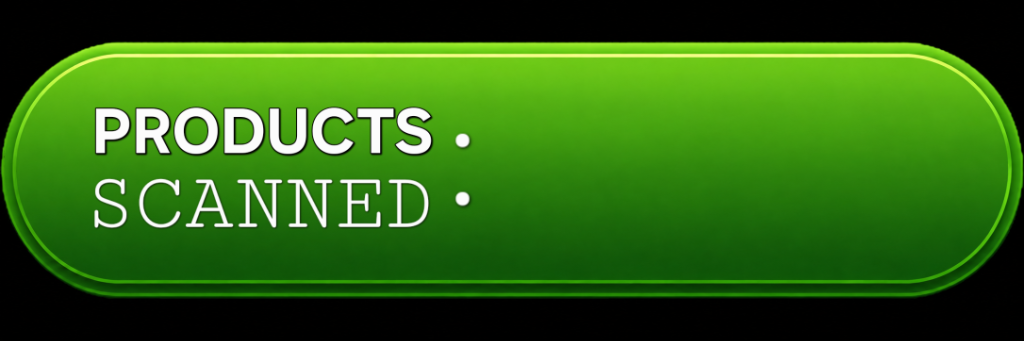
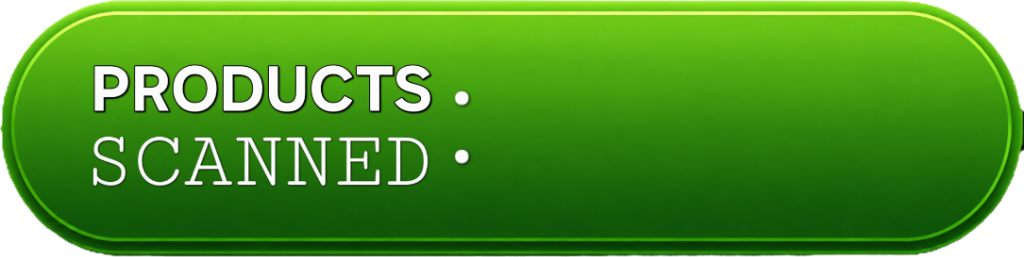
Deploy: Updated State 2 Products Scanned button artwork image asset (products-scanned.png) (Build 202608102058)

diff --git a/frontend/customer/js/build-env.js b/frontend/customer/js/build-env.js
@@ -1,10 +1,10 @@
 // Automatically generated build metadata
 window.APP_BUILD = {
   version: "0.1.0",
-  build: "202608102052",
-  commit: "6a79c64",
+  build: "202608102058",
+  commit: "7532152",
   branch: "main",
-  buildTime: "2026-08-10T20:52:32.056Z",
+  buildTime: "2026-08-10T20:58:51.188Z",
   environment: "production",
   serviceWorkerEnabled: true
 };

diff --git a/frontend/customer/index.html b/frontend/customer/index.html
@@ -11,7 +11,7 @@
   <!-- html5-qrcode library for barcode camera decoding -->
   <script src="js/libs/html5-qrcode.min.js"></script>
   <script src="js/scanner.js"></script>
-  <script>window.HTML_BUILD = "202608102052";</script>
+  <script>window.HTML_BUILD = "202608102058";</script>
 </head>
 <body>
   <div class="app-shell">

diff --git a/frontend/customer/sw.js b/frontend/customer/sw.js
@@ -1,4 +1,4 @@
-const CACHE_NAME = '78pricecheck-202608102052';
+const CACHE_NAME = '78pricecheck-202608102058';
 const ASSETS_TO_CACHE = [
   './',
   './index.html',
